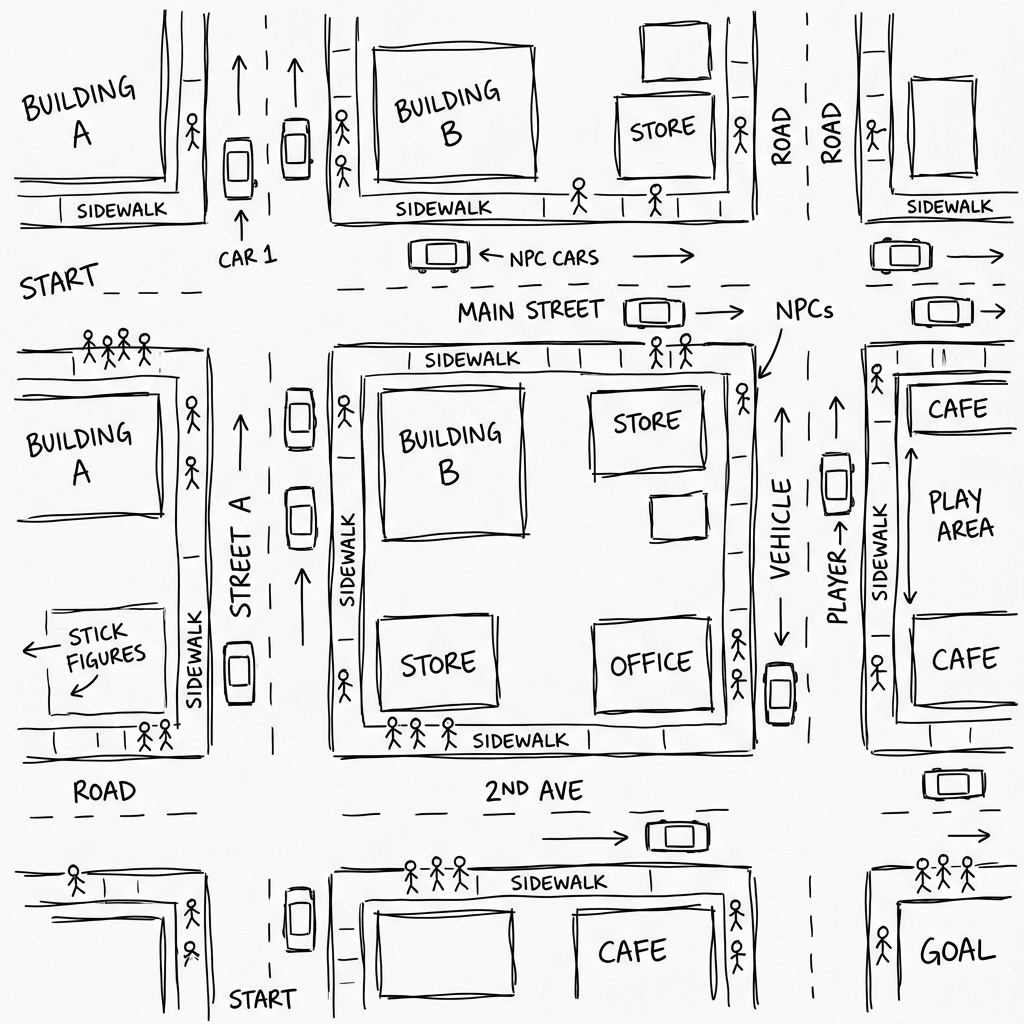
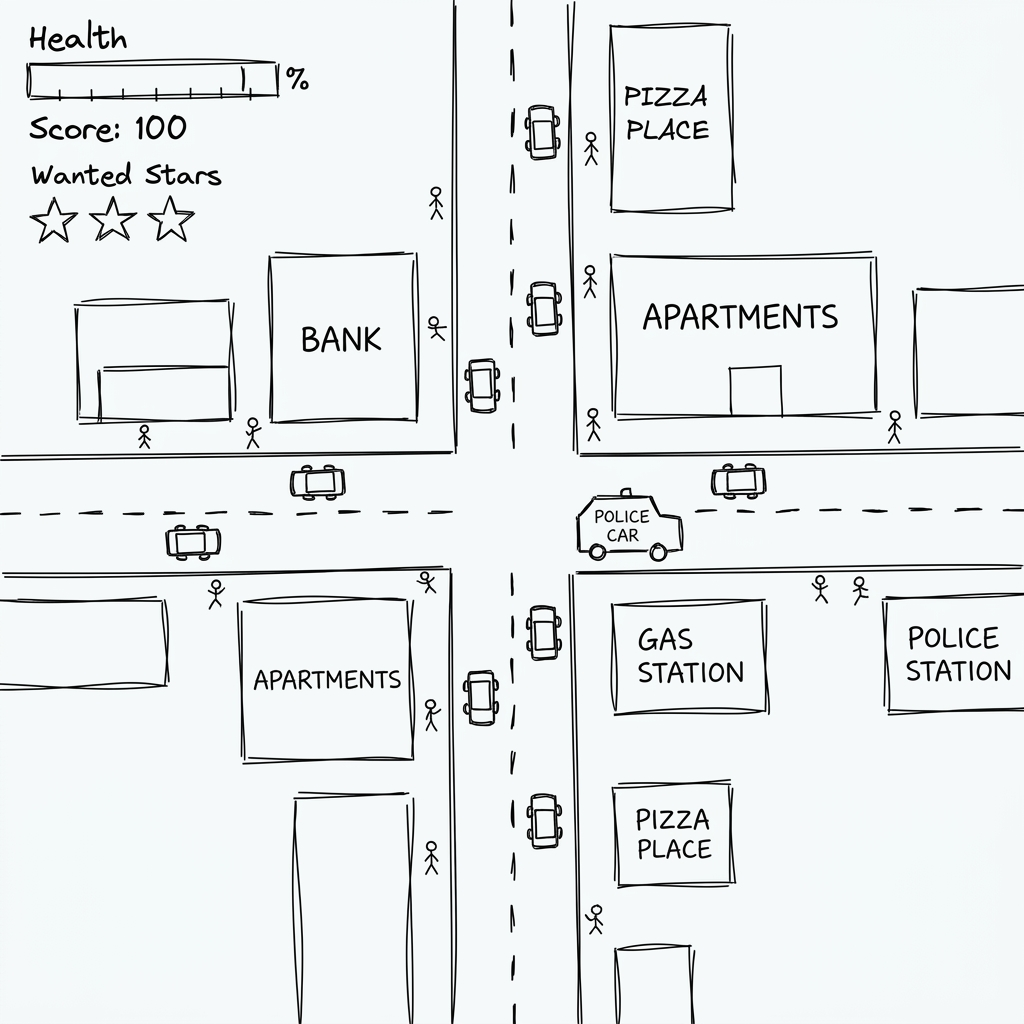
docs: add realistic project sketch

Changed region(s): [[0.0, 0.0, 1.0, 1.0], [0.8438, 0.8125, 0.9688, 1.0]]

diff --git a/README.md b/README.md
@@ -12,8 +12,8 @@ Pixel Crime City is an action-packed, top-down open-world game inspired by class
 - **Projectiles:** Bullets from guns.
 - **Environment:** Buildings, Roads, Streetlights.
 
-*(Excalidraw sketch below)*
-![Excalidraw Sketch](./sketch.png)
+*(Game Architecture Sketch)*
+![Game Architecture Sketch](./sketch.png)
 
 ## 🎮 How to Play
 
